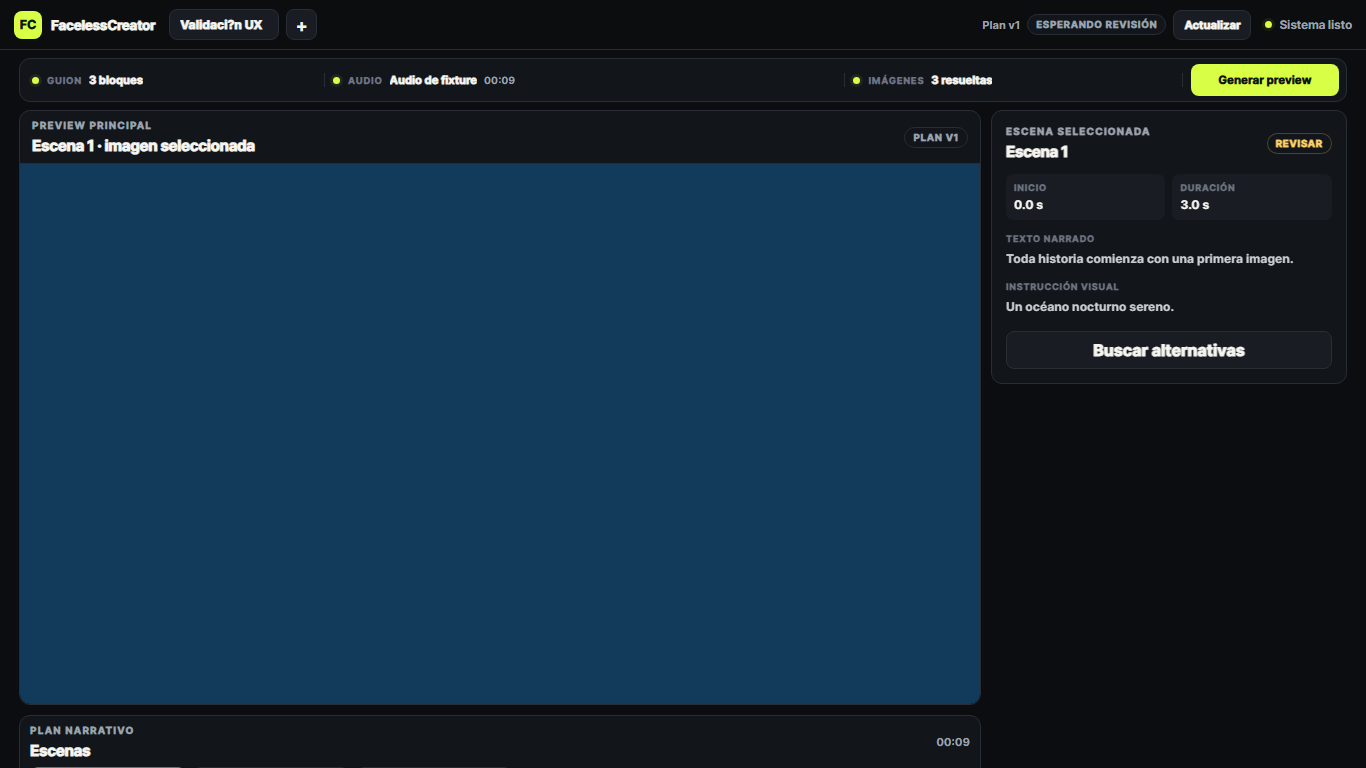
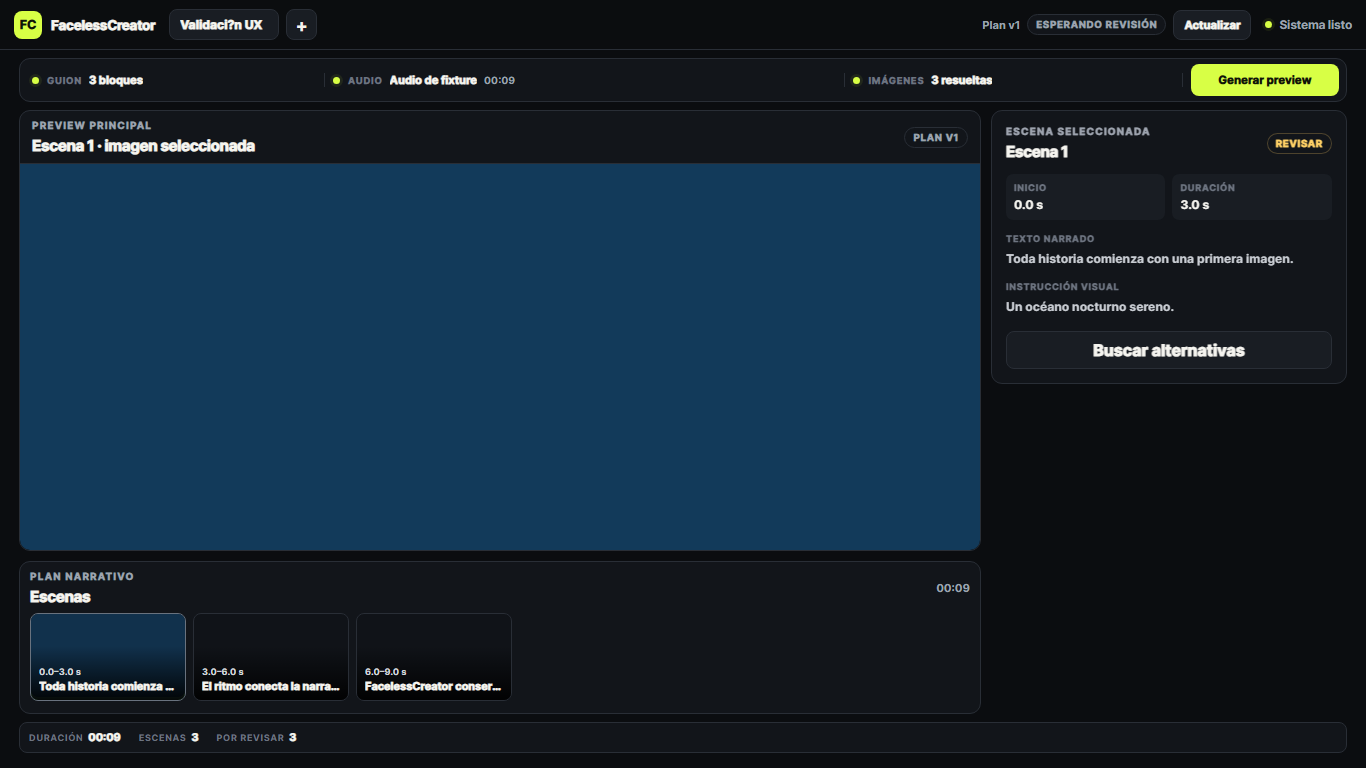
Fit workstation within viewport

Changed region(s): [[0.0, 0.7188, 0.7379, 1.0]]

diff --git a/src/faceless_creator/web/styles.css b/src/faceless_creator/web/styles.css
@@ -1,4 +1,5 @@
 
+
 :root {
   color-scheme: dark;
   --ink: #f5f4ef;
@@ -93,8 +94,8 @@ button:disabled { cursor: not-allowed; opacity: .48; }
 .preview-toolbar { min-height: 48px; justify-content: space-between; gap: 12px; padding: 8px 12px; border-bottom: 1px solid var(--line); }
 .preview-toolbar h2, .filmstrip-heading h2, .inspector h2 { margin: 0; font-size: .95rem; letter-spacing: -.025em; }
 .preview-toolbar-actions { gap: 7px; }
-.visual-preview { position: relative; display: grid; place-items: center; aspect-ratio: 16/9; overflow: hidden; background: #050607; }
-.visual-preview img, .visual-preview video { width: 100%; height: 100%; object-fit: cover; }
+.visual-preview { position: relative; display: grid; height: clamp(300px, calc(100vh - 382px), 720px); place-items: center; overflow: hidden; background: #050607; }
+.visual-preview img, .visual-preview video { width: 100%; height: 100%; object-fit: contain; }
 .preview-placeholder { position: absolute; inset: 0; display: grid; place-content: center; justify-items: center; padding: 24px; text-align: center; background: radial-gradient(circle at center, #20262b 0, #080a0d 68%); }
 .preview-placeholder strong { margin-top: 12px; }
 .preview-placeholder small { max-width: 420px; margin-top: 6px; color: var(--muted); }

diff --git a/tests/test_vertical_density.py b/tests/test_vertical_density.py
@@ -1,3 +1,5 @@
+
+
 from pathlib import Path
 import unittest
 
@@ -14,6 +16,8 @@ class VerticalDensityTests(unittest.TestCase):
         self.assertIn(".input-strip { min-height: 44px", styles)
         self.assertIn(".preview-toolbar { min-height: 48px", styles)
         self.assertIn(".operation-bar { min-height: 31px", styles)
+        self.assertIn("height: clamp(300px, calc(100vh - 382px), 720px)", styles)
+        self.assertIn("object-fit: contain", styles)
 
 
 if __name__ == "__main__":

diff --git a/docs/PROJECT_STATUS.md b/docs/PROJECT_STATUS.md
@@ -1,15 +1,10 @@
-
-
-
-
-
 # Estado del proyecto
 
 - **Fase actual:** shell desktop Tauri completado, instalado y listo para evaluación humana.
-- **Última funcionalidad:** workstation supervisada con preview 73%, inspector contextual 27%, filmstrip y una acción primaria por estado.
+- **Última funcionalidad:** workstation supervisada con preview adaptable a la altura disponible, medios completos sin recorte, inspector contextual, filmstrip visible y una acción primaria por estado.
 - **Existe:** Tauri/WebView2, SQLite, jobs/recovery, API loopback dinámica, FFmpeg integrado, UI compacta, importación de audio, fixture 1920×1080, preview, reemplazo, export, tests Python/Rust y build NSIS.
 - **Instalación validada:** `C:\Users\jose\AppData\Local\FacelessCreator\FacelessCreator.exe`.
[2 lines of base64/hex data omitted]
 - **Lifecycle:** puerto libre; espera de salud; cero navegador; backend hijo directo; monitor de PID padre; cierre validado sin procesos ni puertos huérfanos.
 - **Datos locales:** `%LOCALAPPDATA%\FacelessCreator\UserData`, separados del directorio de instalación.
 - **No existe:** importación de guion real, Visual Library real, voz, proveedor IA, firma de código o CI.
